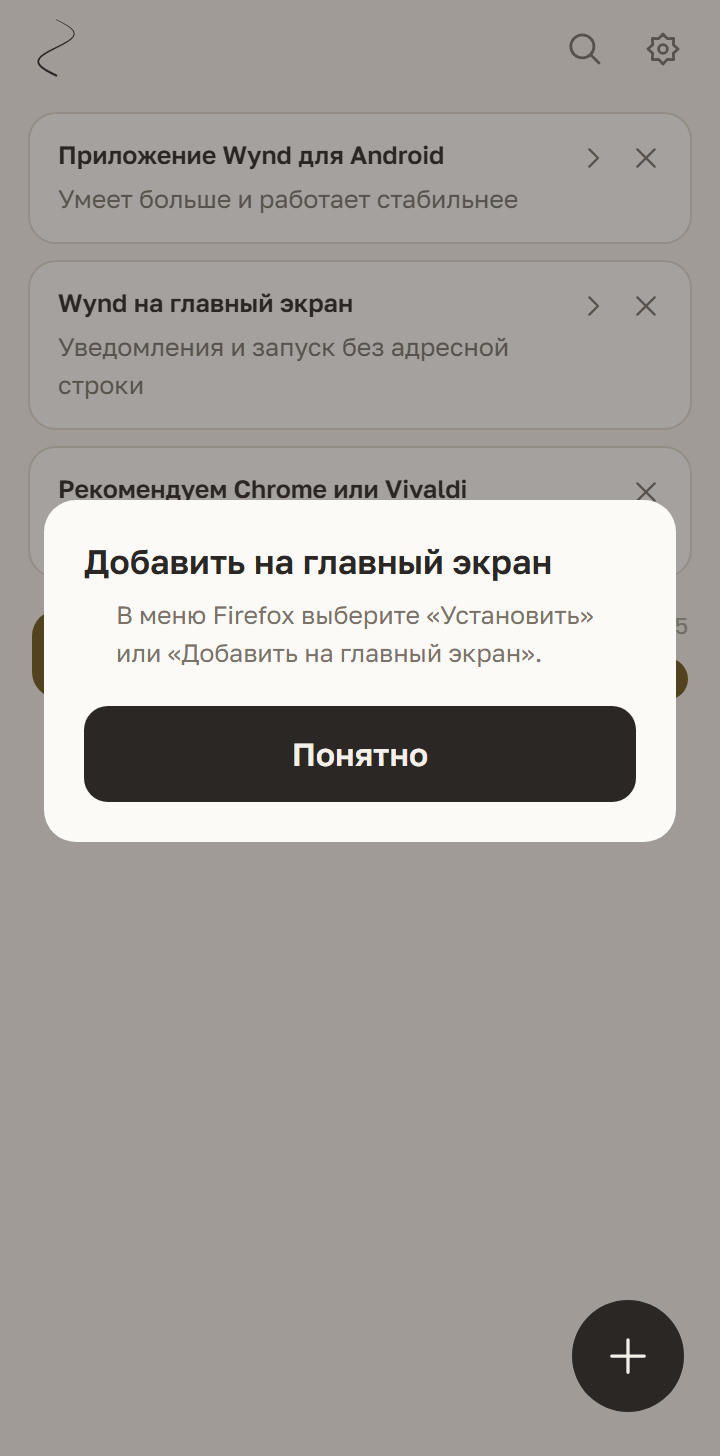
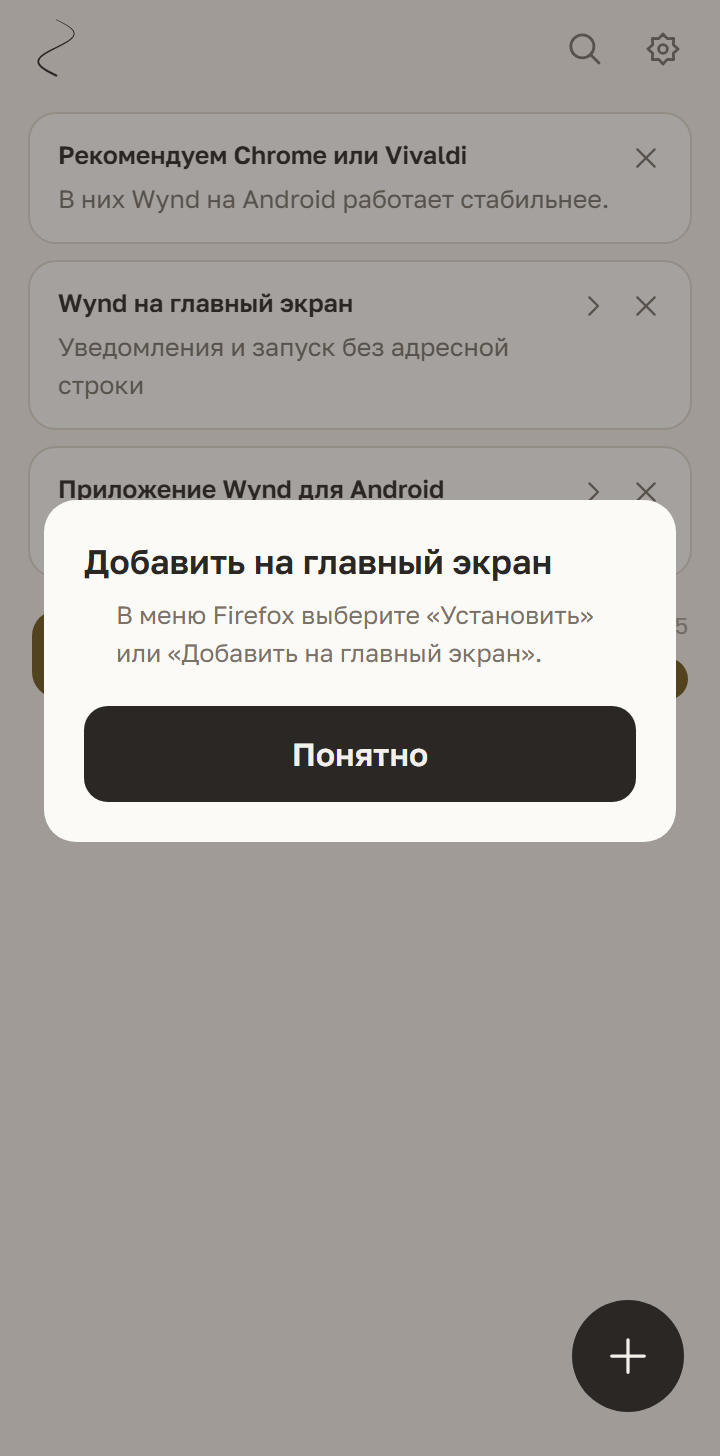
План 74: порядок баннеров — браузер, веб-приложение, приложение, новости
Слово владельца 26.11: «1. Рекомендуем Chrome… 2. Потом про pwa
3. Android 4. Что нового». Прежние порядки отменены.

Кадр улочки переснят (360 × 728 DPR 2, Firefox на Android, круг
«Тест OPPO» с wynd2): подсказка о браузере, ниже PWA с уведомлениями,
ниже приложение для Android; «Что нового?» — под ними.

Changed region(s): [[0.0917, 0.0927, 0.825, 0.1545], [0.0917, 0.3091, 0.6417, 0.34]]

diff --git a/web/src/lib/layouts/StreetLayout.svelte b/web/src/lib/layouts/StreetLayout.svelte
@@ -667,12 +667,11 @@
 					ondismiss={() => (androidUpdate.hidden = true)}
 				/>
 			{/if}
-			{#if appHint && !empty}
-				<NewsBanner
-					title="Приложение Wynd для Android"
-					text="Умеет больше и работает стабильнее"
-					onclick={() => goto('/app')}
-					ondismiss={hideAppHint}
+			{#if browserHint && !empty}
+				<HintBanner
+					title="Рекомендуем Chrome или Vivaldi"
+					text="В них Wynd на Android работает стабильнее."
+					ondismiss={hideBrowserHint}
 				/>
 			{/if}
 			{#if pwaHint && !empty}
@@ -683,18 +682,19 @@
 					ondismiss={hidePwaHint}
 				/>
 			{/if}
+			{#if appHint && !empty}
+				<NewsBanner
+					title="Приложение Wynd для Android"
+					text="Умеет больше и работает стабильнее"
+					onclick={() => goto('/app')}
+					ondismiss={hideAppHint}
+				/>
+			{/if}
 			{#if newsUnseen && !empty}
 				<NewsBanner
 					version={latestNewsVersion()}
 					onclick={() => goto('/settings/news?from=circles')}
 					ondismiss={hideNews}
-				/>
-			{/if}
-			{#if browserHint && !empty}
-				<HintBanner
-					title="Рекомендуем Chrome или Vivaldi"
-					text="В них Wynd на Android работает стабильнее."
-					ondismiss={hideBrowserHint}
 				/>
 			{/if}
 			{#if empty}

diff --git a/docs/plans/74-pwa-install-banner.plan.md b/docs/plans/74-pwa-install-banner.plan.md
@@ -7,7 +7,7 @@
 ## Решения владельца (26.11)
 
 1. **Показывать** в Chrome, Vivaldi, Safari и Firefox — во всех браузерах; не только в Chrome/Vivaldi.
-2. **Порядок** — рекомендация поставить приложение первой, баннер про веб-приложение ниже. Слово владельца 26.11 после кадров; раньше было наоборот. Оба баннера — выше «Что нового?».
+2. **Порядок** — «Рекомендуем Chrome или Vivaldi», ниже «Wynd на главный экран», ниже «Приложение Wynd для Android», ниже «Что нового?». Слово владельца 26.11 после кадров (прежние порядки отменены).
 
 ## Что можем отличить
 
@@ -20,7 +20,7 @@
 
 - `web/src/lib/pwa/install.ts` — перехват `beforeinstallprompt` (Chromium) и `promptPwaInstall()`: системное окно установки, одноразовое событие; `runningStandalone()` — «уже с домашнего экрана». Вызов перехвата — в корневом `+layout`.
 - `web/src/lib/session/pwaHint.ts` — показ/закрытие баннера (`wynd:pwa-hint-closed`, как у соседних подсказок) и шаги установки по браузеру: Safari на телефоне — «Поделиться» → «На экран „Домой“»; Firefox — «Установить»/«Добавить на главный экран»; Safari на компьютере — «Добавить в Dock»; Chrome на Android — «Установить приложение»; компьютер — значок в адресной строке. В Firefox на компьютере установки нет — баннера нет.
-- Баннер на улочке **под** баннером про приложение: `title` «Wynd на главный экран», `text` «Уведомления и запуск без адресной строки» (слово владельца 26.11 — про уведомления), шеврон и крестик. Нажатие: есть системное окно — открываем его; нет — окно с шагами меню (`Dialog` + `Scrim`, кнопка «Понятно»). Поставили — баннер исчезает.
+- Баннер на улочке: после подсказки о браузере и перед баннером про приложение — `title` «Wynd на главный экран», `text` «Уведомления и запуск без адресной строки» (слово владельца 26.11 — про уведомления), шеврон и крестик. Нажатие: есть системное окно — открываем его; нет — окно с шагами меню (`Dialog` + `Scrim`, кнопка «Понятно»). Поставили — баннер исчезает.
 - Тесты: `pwaHint.test.ts` (10) — браузеры, установленная PWA, окно Wynd, Firefox на компьютере, крестик, шаги по браузерам; `install.test.ts` (4) — без события «unavailable», системное окно и выбор, отписка, `standalone`. svelte-check 0/0, 703 теста, lint и check:ui зелёные.
 
 ## Кадры

diff --git a/docs/testing/pwa-banner-2026-11-26.md b/docs/testing/pwa-banner-2026-11-26.md
@@ -1,8 +1,8 @@
 # Баннер «Wynd на главный экран»
 
 26 ноября 2026. Задача владельца — [план 74](../plans/74-pwa-install-banner.plan.md).
-Решения: показывать в Chrome/Vivaldi/Safari/Firefox; рекомендация поставить
-приложение первой, веб-приложение ниже; в баннере PWA — про уведомления.
+Решения: показывать в Chrome/Vivaldi/Safari/Firefox; порядок — подсказка о браузере,
+веб-приложение, приложение, «Что нового?»; в баннере PWA — про уведомления.
 
 ## Кадры
 
@@ -10,14 +10,15 @@
 DPR 2**, светлая тема, строка браузера **Firefox на Android**, круг «Тест OPPO»
 с сервера wynd2. «Что нового?» отмечено прочитанным.
 
-- [Улочка: три баннера](pwa-banner-2026-11-26/street.png) — «Приложение Wynd для Android»,
-  «Wynd на главный экран», «Рекомендуем Chrome или Vivaldi».
+- [Улочка: три баннера](pwa-banner-2026-11-26/street.png) — «Рекомендуем Chrome или Vivaldi»,
+  «Wynd на главный экран», «Приложение Wynd для Android».
 - [Шаги установки](pwa-banner-2026-11-26/help.png) — нажатие баннера в стенде: системного
   окна нет (стенд без служебного воркера), показаны шаги для Firefox.
 
 ## Что проверено
 
-- Баннер стоит ниже баннера про приложение и выше «Что нового?» — как решил владелец.
+- Баннер стоит после подсказки о браузере и перед баннером про приложение;
+  «Что нового?» — ниже всех трёх (слово владельца 26.11).
 - Нажатие без системного окна открывает шаги по браузеру; в Chrome/Vivaldi
   `beforeinstallprompt` даст своё окно установки, шагов не будет.
 - Закрытие баннера пишется на устройство (`wynd:pwa-hint-closed`); установленная

diff --git a/docs/CHANGELOG.md b/docs/CHANGELOG.md
@@ -11,7 +11,7 @@
 ### Добавлено
 
 - На Android в веб-версии над списком кругов — баннер «Приложение Wynd для Android»: ведёт на страницу установки с пользой, шагами и кнопкой скачивания последнего выпуска. В приложении Wynd баннера нет; в нерекомендованном браузере ниже остаётся подсказка про Chrome или Vivaldi ([план 73](plans/73-android-app-banner.plan.md)).
-- В браузере на телефоне и компьютере — баннер «Wynd на главный экран» с уведомлениями: Chrome и Vivaldi открывают своё окно установки, Firefox и Safari показывают шаги меню. Рекомендация поставить приложение стоит выше; в установленной PWA и в приложении Wynd баннера нет ([план 74](plans/74-pwa-install-banner.plan.md)).
+- В браузере на телефоне и компьютере — баннер «Wynd на главный экран» с уведомлениями: Chrome и Vivaldi открывают своё окно установки, Firefox и Safari показывают шаги меню. Порядок — подсказка о браузере, веб-приложение, приложение, новости; в установленной PWA и в приложении Wynd баннера нет ([план 74](plans/74-pwa-install-banner.plan.md)).
 
 ### Исправлено
 
